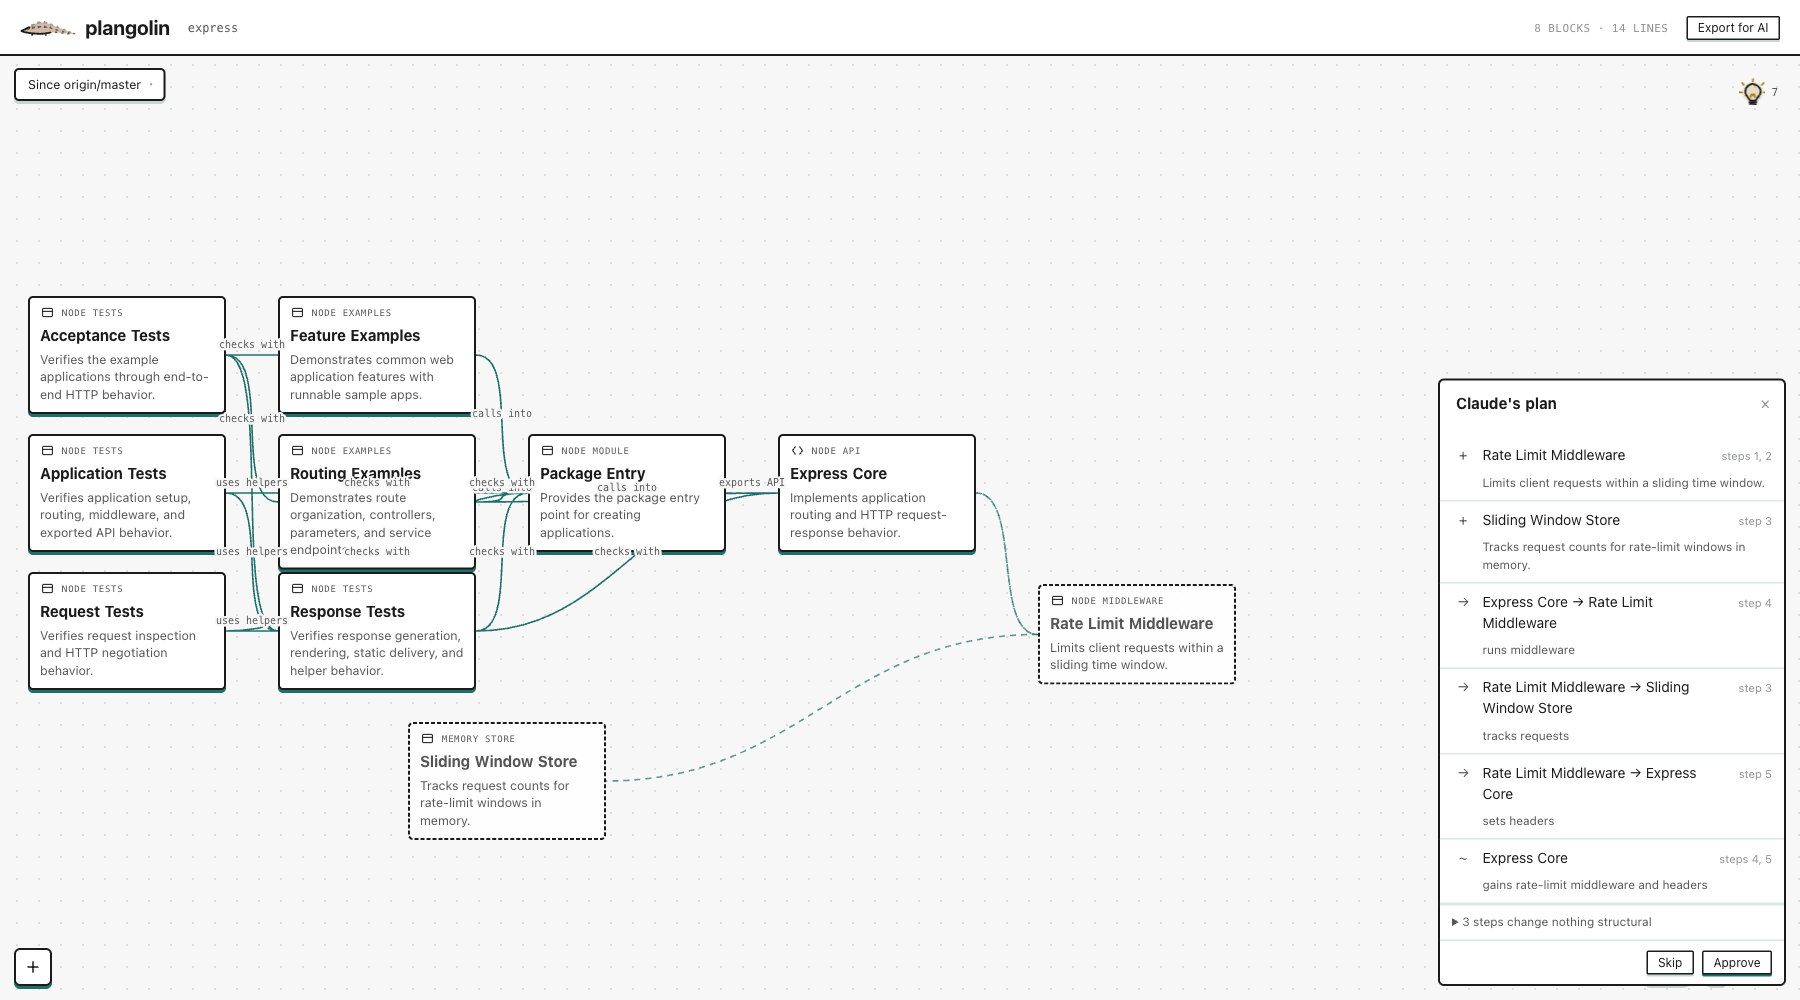
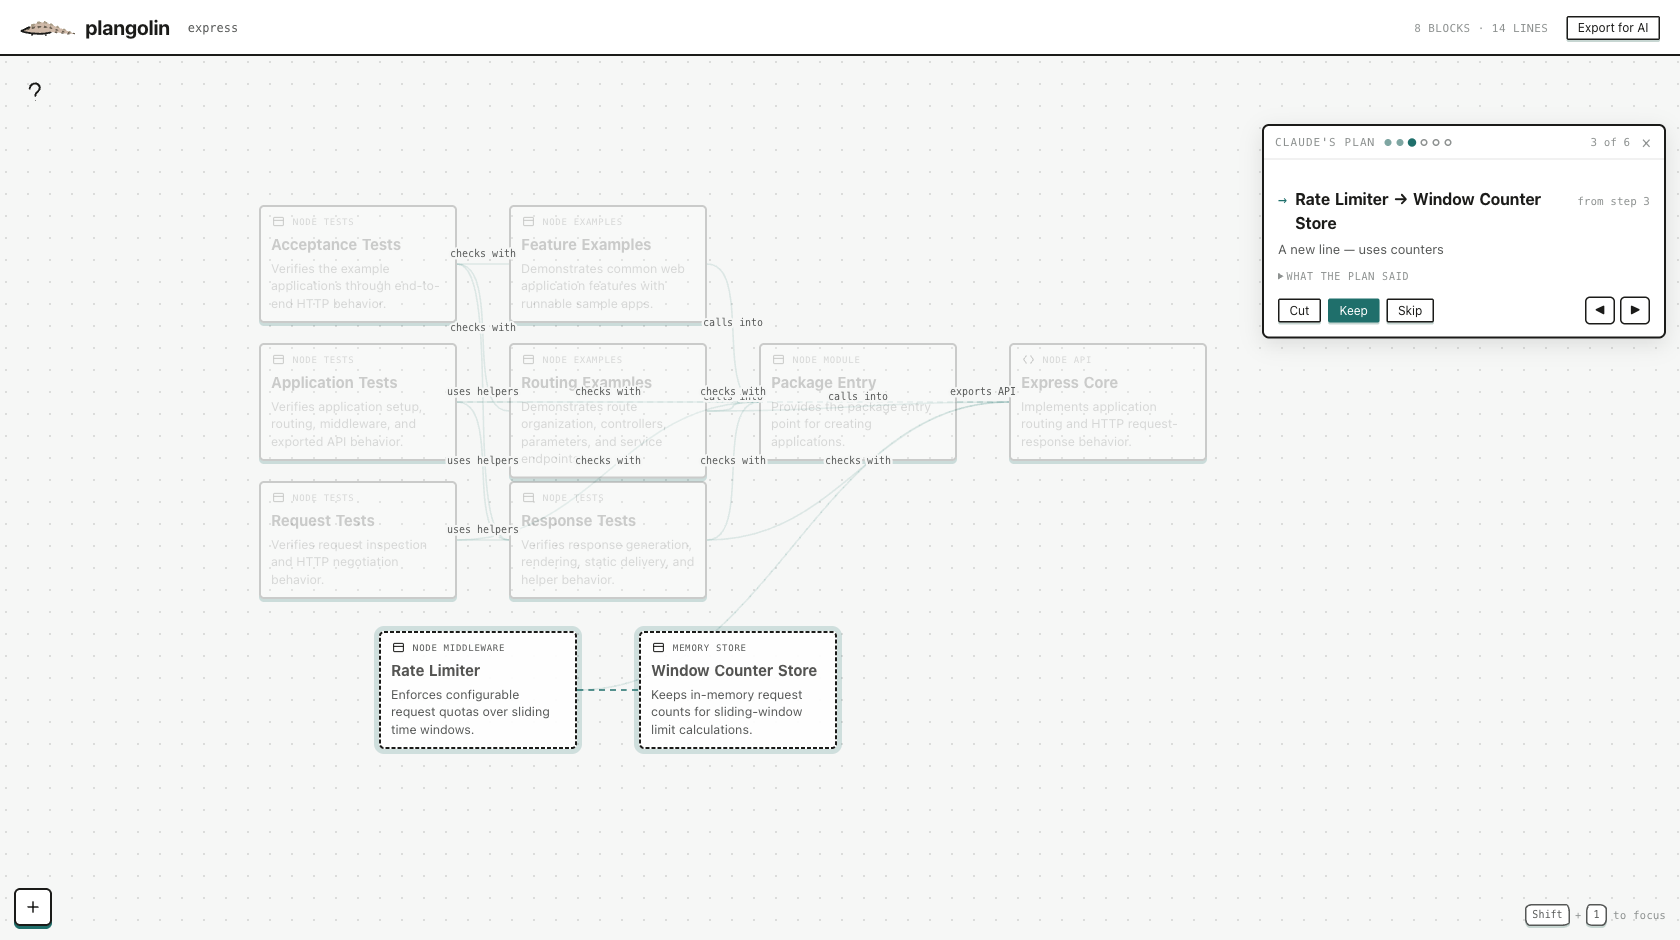
Show the stepper, and stop describing what is switched off

diff --git a/README.md b/README.md
@@ -18,10 +18,11 @@ thread, so it is still there next time, and still true.
 
 ![plangolin](screenshot.png)
 
-*A plan to add rate limiting to Express, drawn against Express's own code. The
-two dashed blocks and the dashed line are what the plan would add; the solid
-ones already exist. Three of its eight steps change nothing structural, and it
-says so — those are the ones you can skim.*
+*A plan to add rate limiting to Express, drawn against Express's own code. One
+proposal at a time: here, the line the plan would draw between two blocks it
+would also add. What the step is about is lit; the rest of the system stays
+visible but out of the way. Keep it or cut it, and what you cut goes back to
+the agent as an instruction.*
 
 ---
 
@@ -63,7 +64,7 @@ hand.
 |---|---|
 | Stop it | `Ctrl-C`, or `pkill -f plangolin` |
 | Another port | `PORT=5000 plangolin` |
-| No browser | `plangolin --no-open` |
+| Open a browser too | `PLANGOLIN_OPEN=1 plangolin review …` |
 | Start over | delete the `plangolin/` folder it made |
 
 ---
@@ -77,20 +78,16 @@ secondhand textbooks between students"*.
 It stops at two or three. **It does not give you everything**, and that is the
 entire point — see below.
 
-**3. The rail on the right fills with what's missing.**
+**3. It writes a file.** `plangolin/system.json` — yours, in your repo, in git.
 
-> **RISK** — "Student Marketplace" talks straight to "Listing Database"
-> *That means the database password ships to every visitor's browser. Put
-> something you run in between.*
->
-> **MISSING** — You mention money, but nothing takes it → `Add payments`
->
-> **WORTH ADDING** — Search gets slow before you expect it to
+From there the sheet is a document you edit: drag blocks, draw lines, rename,
+group, undo.
 
-**4. You accept the ones you want.** Each button adds the block already wired up.
-Hover a check and a line runs from it to the block it's about, circled in pen.
-
-**5. It writes a file.** `plangolin/system.json` — yours, in your repo, in git.
+> **Two things are built and currently switched off**, because the product is
+> about reviewing plans and they were competing for the same attention: a rail
+> of design checks ("this talks straight to the database"), and a view of what
+> changed in git since you last looked, with the diff a click away. Both work
+> and are tested; `CHANGE_VIEW` at the top of `app/app.js` turns them back on.
 
 ---
 
@@ -365,7 +362,7 @@ app* should look like.
 ## Layout
 
 ```
-src/cli.js         starts the server, opens a browser
+src/cli.js         `plangolin` and `plangolin review <file>`
 src/server.js      serves the app; GET/PUT /api/doc, POST /api/generate
 src/workspace.js   the only file that touches the filesystem
 src/schema.js      load, validate, repair, save
